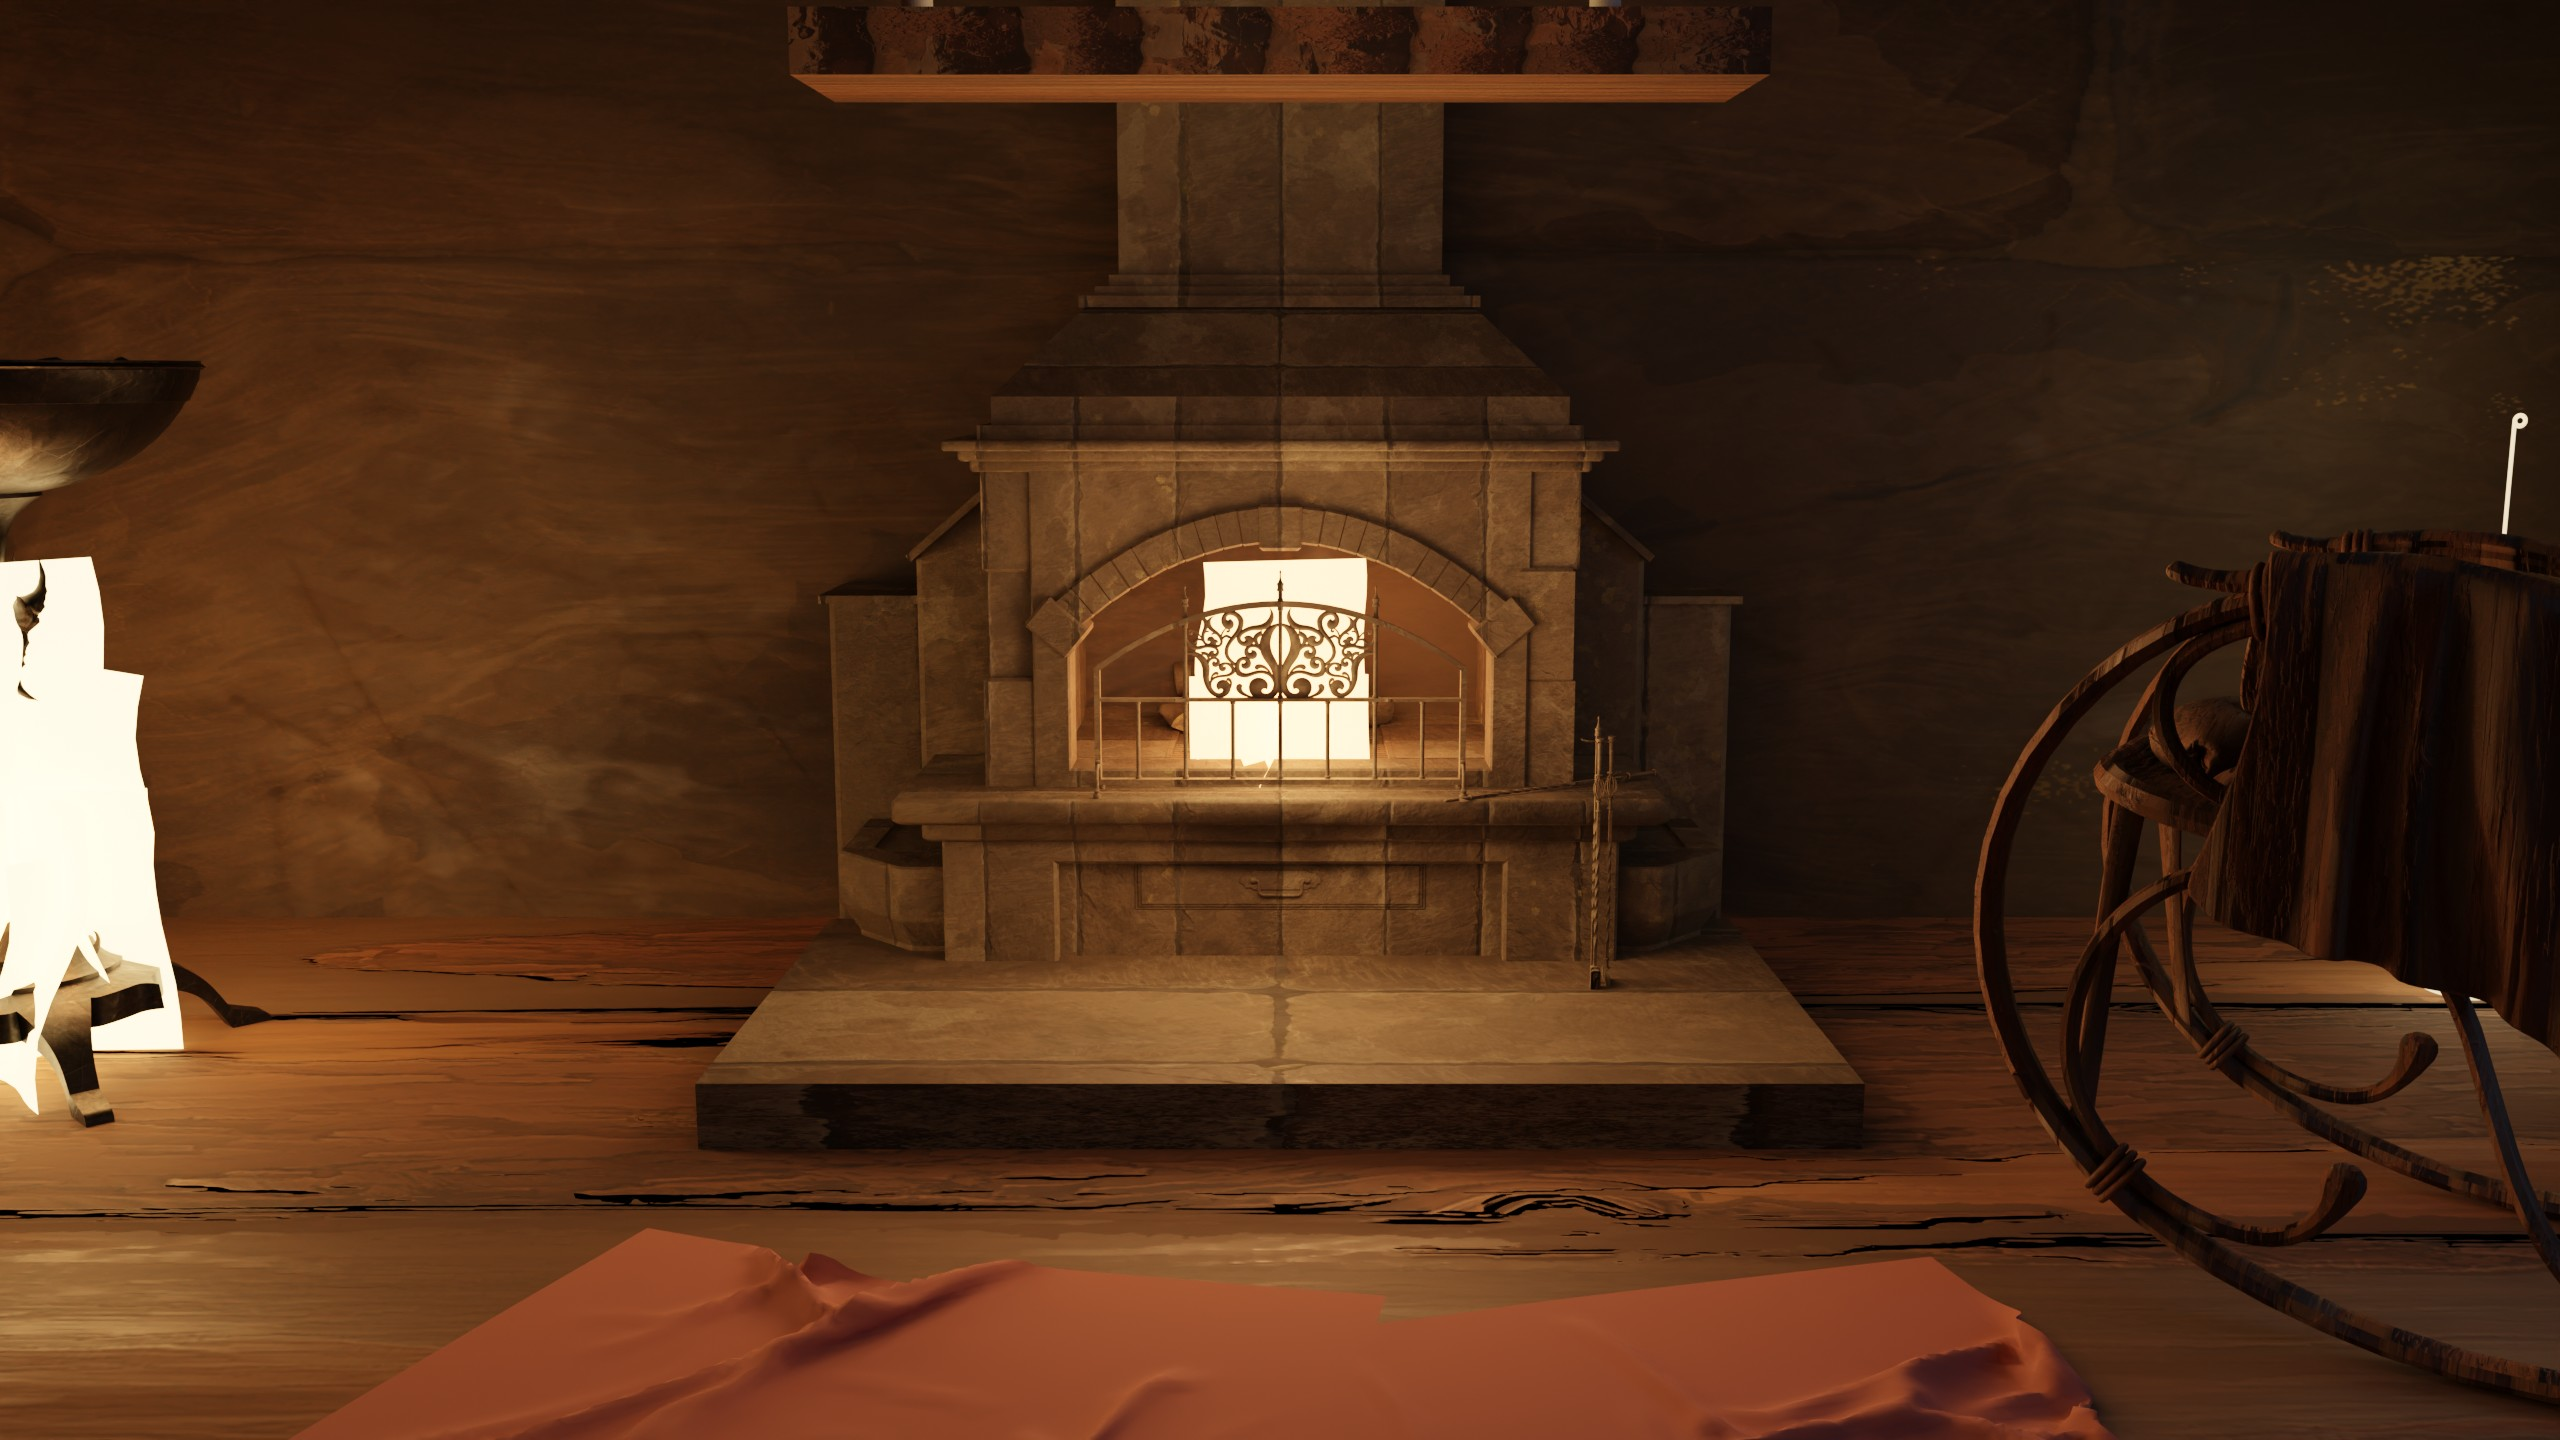
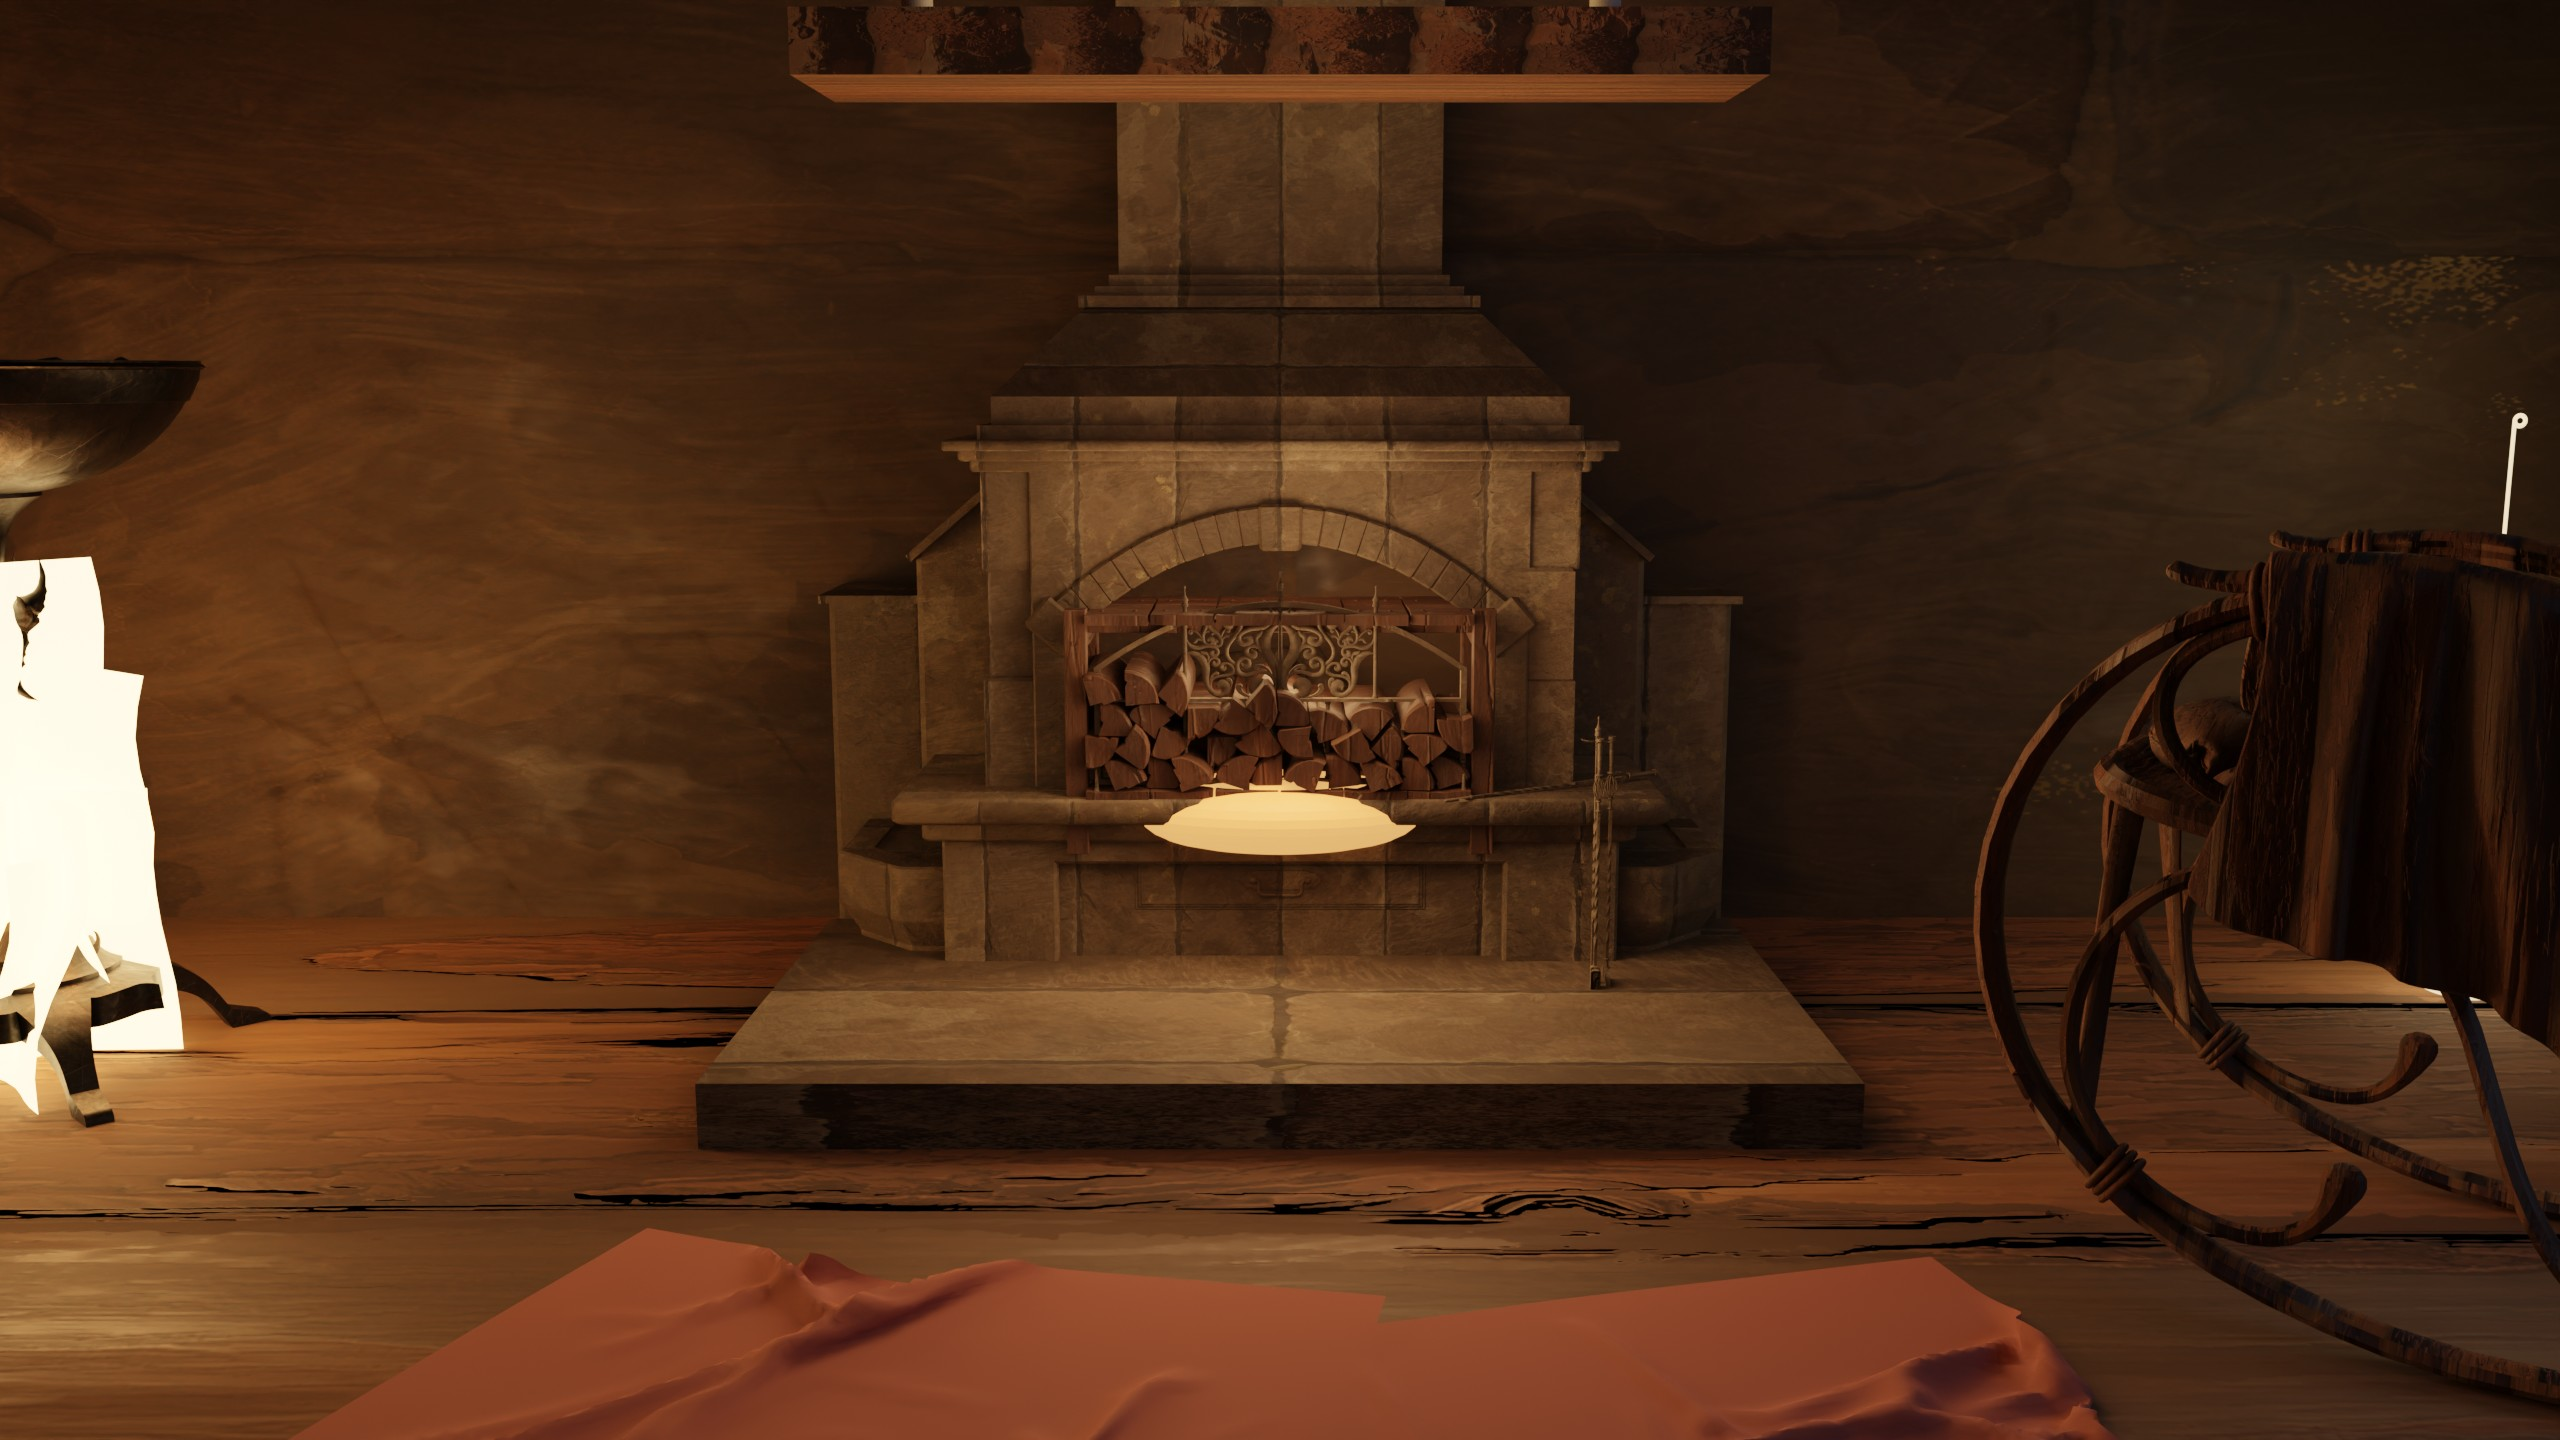
fix(cabin): real firewood in the hearth, taller wispy flames, writings at the books
- Replace the flat glowing fire mesh with KB3D PropFireWood_A (stacked logs)
  in the firebox; dim ember bed + warm hearth light so the logs read
- Rework the flame shader into separated licking tongues with transparent gaps
  (logs show through), taller and wider, with rising sparks
- Consolidate the text markers onto the books: one "writings" marker opens the
  tale + the three ways (was scattered story/methods markers)

Changed region(s): [[0.375, 0.375, 0.625, 0.6875], [0.4375, 0.7188, 0.5625, 0.75], [0.5, 0.8438, 0.5312, 0.875]]

diff --git a/cabin.html b/cabin.html
@@ -1667,8 +1667,7 @@ const reduce   = matchMedia('(prefers-reduced-motion: reduce)').matches;
 // in-world points of interest (lon/lat in the equirect; tuned to the render)
 const MARKERS = [
   { key:'meditate', lon:0,   lat:-13, r:5.5, jp:'炎を見つめて瞑想する', en:'gaze into the fire' },
-  { key:'story',    lon:-24, lat:-16, r:6,   jp:'小屋の物語',           en:'the tale of the cabin' },
-  { key:'methods',  lon:-42, lat:-7,  r:6,   jp:'心の鎮め方',           en:'three ways to quiet' },
+  { key:'writings', lon:-24, lat:-16, r:6,   jp:'小屋の物語と、整え方', en:'the writings' },
   { key:'window',   lon:-63, lat:1,   r:6,   jp:'夜の森をのぞむ',       en:'the night forest' },
 ];
 
@@ -1721,37 +1720,35 @@ else {
       float fbm(vec2 p){ float v=0.0,a=0.5; for(int i=0;i<5;i++){ v+=a*noise(p); p*=2.03; a*=0.5; } return v; }
       void main(){
         vec2 uv=vUv; float t=uTime;
-        // layered upward turbulence
         float n1=fbm(vec2(uv.x*3.0, uv.y*2.2 - t*1.7));
-        float n2=fbm(vec2(uv.x*6.5 - 1.0, uv.y*4.2 - t*3.0));
-        float turb=n1*0.65 + n2*0.35;
-        // flames sway sideways, more at the top
-        float xc=uv.x + (turb-0.5)*0.22*uv.y;
+        float n2=fbm(vec2(uv.x*6.8 - 1.0, uv.y*4.4 - t*3.1));
+        float turb=n1*0.6 + n2*0.4;
+        float xc=uv.x + (turb-0.5)*0.24*uv.y;
         float edge=clamp(1.0-abs(xc-0.5)*2.0, 0.0, 1.0);
-        // flame height: tallest at centre, licked by turbulence, breathing
-        float top=edge*edge*(0.6+0.32*uBreath)*(0.5+0.75*turb);
-        float flame=smoothstep(top, top-0.36, uv.y);
-        flame*=smoothstep(0.02,0.2,edge);
-        flame*=(0.45+0.65*turb);
-        flame=clamp(flame,0.0,1.0);
-        // glowing ember bed at the base
-        float ember=smoothstep(0.34,0.0,uv.y)*edge*(0.45+0.55*n2);
-        // colour ramp: white-hot base -> yellow -> orange -> deep-red tips
+        // flame height envelope (tall, licking, breathing)
+        float top=pow(edge,1.2)*(0.82+0.34*uBreath)*(0.55+0.85*turb);
+        // dense near the base, thinning to the tips
+        float hfall=clamp(1.0 - uv.y/max(top,0.01), 0.0, 1.0);
+        // separated tongues: flame only where turbulence*falloff crosses a threshold
+        // -> transparent gaps let the logs show through
+        float d=(n2*0.6+0.42)*hfall*pow(edge,0.55);
+        float flame=smoothstep(0.30, 0.60, d);
+        float ember=smoothstep(0.26,0.0,uv.y)*edge*(0.4+0.5*n2);
         float h=clamp(uv.y/max(top,0.001),0.0,1.0);
-        vec3 col=mix(vec3(1.0,0.96,0.72), vec3(1.0,0.55,0.13), smoothstep(0.0,0.45,h));
-        col=mix(col, vec3(0.82,0.14,0.03), smoothstep(0.45,1.0,h));
-        col+=vec3(0.95,0.32,0.06)*ember*0.7;
-        float a=max(flame, ember*0.6)*(0.9+0.1*sin(t*26.0+uv.x*8.0));
-        gl_FragColor=vec4(col*1.5, a);
+        vec3 col=mix(vec3(1.0,0.93,0.62), vec3(1.0,0.52,0.12), smoothstep(0.0,0.5,h));
+        col=mix(col, vec3(0.8,0.13,0.03), smoothstep(0.5,1.0,h));
+        col+=vec3(0.9,0.3,0.06)*ember*0.5;
+        float a=max(flame, ember*0.4)*(0.9+0.1*sin(t*27.0+uv.x*9.0));
+        gl_FragColor=vec4(col*1.18, a*0.86);
       }`
   });
-  const fire = new THREE.Mesh(new THREE.PlaneGeometry(1.2,1.45), fireMat);
-  fire.position.copy(bearing(HEARTH_LON,-9,6.2)); faceOrigin(fire); fire.renderOrder=2;
+  const fire = new THREE.Mesh(new THREE.PlaneGeometry(1.7,1.95), fireMat);
+  fire.position.copy(bearing(HEARTH_LON,-8,6.0)); faceOrigin(fire); fire.renderOrder=2;
   scene.add(fire);
 
   // hearth halo + embers
   const glowMat = new THREE.SpriteMaterial({ map:glowTex(255,138,50), blending:THREE.AdditiveBlending, depthWrite:false, transparent:true, opacity:.4 });
-  const glow = new THREE.Sprite(glowMat); glow.position.copy(bearing(HEARTH_LON,-9,6.6)); glow.scale.set(4.2,3.8,1); scene.add(glow);
+  const glow = new THREE.Sprite(glowMat); glow.position.copy(bearing(HEARTH_LON,-8,6.6)); glow.scale.set(4.4,4.2,1); scene.add(glow);
 
   const EN=reduce?0:90, ebase=bearing(HEARTH_LON,-11,5.9);
   const ep=new Float32Array(EN*3), es=[];
@@ -1865,7 +1862,7 @@ else {
     breath+=(bt-breath)*0.05; fireUniforms.uBreath.value=breath;
     const flick=reduce?1:(0.82+Math.sin(t*12.9)*0.06+Math.sin(t*7.1)*0.05+Math.random()*0.05);
     const I=flick*(0.72+0.5*breath);
-    glowMat.opacity=0.38*I; glow.scale.setScalar(4.1*(0.92+0.13*I));
+    glowMat.opacity=0.30*I; glow.scale.setScalar(4.0*(0.92+0.13*I));
     if(EN){ const a=eg.attributes.position.array;
       for(let i=0;i<EN;i++){ const s=es[i]; s.y+=dt*s.sp*0.12; if(s.y>1){ s.y=0; s.x=(Math.random()-.5)*1.5; s.z=(Math.random()-.5)*0.8; }
         a[i*3]=ebase.x+s.x+Math.sin(t*0.8+s.sw)*0.18*s.y; a[i*3+1]=ebase.y+s.y*2.2; a[i*3+2]=ebase.z+s.z; }
@@ -1935,12 +1932,12 @@ else {
   const caption=$('#caption'), capEyebrow=$('#capEyebrow'), capBody=$('#capBody');
   function openCaption(kind){
     let eyebrow='', html='';
-    if(kind==='story'){ eyebrow=i18nHTML('story.eyebrow');
-      html=`<p style="font-family:'Cormorant Garamond',serif;font-style:italic;color:var(--lantern-soft);font-size:1.15em;margin-bottom:18px">${i18nHTML('story.title')}</p>`
+    const H='font-family:\'Cormorant Garamond\',serif;font-style:italic;color:var(--lantern-soft);font-size:1.15em;margin:0 0 18px';
+    if(kind==='writings'){ eyebrow=i18nHTML('story.eyebrow');
+      html=`<p style="${H}">${i18nHTML('story.title')}</p>`
         +`<p>${i18nHTML('story.p1')}</p><p>${i18nHTML('story.p2')}</p><p>${i18nHTML('story.p3')}</p>`
-        +`<p style="color:var(--ash-dim);font-family:'Cormorant Garamond',serif;font-style:italic">${i18nHTML('story.sig')}</p>`; }
-    else if(kind==='methods'){ eyebrow=i18nHTML('method.eyebrow');
-      html=`<p style="font-family:'Cormorant Garamond',serif;font-style:italic;color:var(--lantern-soft);font-size:1.15em;margin-bottom:18px">${i18nHTML('method.title')}</p>`
+        +`<p style="color:var(--ash-dim);font-family:'Cormorant Garamond',serif;font-style:italic;margin-bottom:28px">${i18nHTML('story.sig')}</p>`
+        +`<p style="${H}">${i18nHTML('method.title')}</p>`
         +['1','2','3'].map(n=>`<p><em>${i18nHTML('method.'+n+'.h')}</em> — ${i18nHTML('method.'+n+'.p')}</p>`).join(''); }
     else if(kind==='window'){ eyebrow=i18nHTML('practice.eyebrow');
       html=`<p>${i18nHTML('closing.quote')}</p>`; }
@@ -1995,8 +1992,7 @@ else {
   // ── marker dispatch (called by the 3D module) ──
   window.onMarker=function(key){
     if(key==='meditate') enterMeditation();
-    else if(key==='story') openCaption('story');
-    else if(key==='methods') openCaption('methods');
+    else if(key==='writings') openCaption('writings');
     else if(key==='window') openCaption('window');
   };
 

diff --git a/_blender/eci_meditation_360.py b/_blender/eci_meditation_360.py
@@ -120,7 +120,7 @@ MAT = {
 # name -> (mat, x, y, rotz_deg, scale)
 KIT = {
     'KB3D_ECI_PropFireplace_A_Main':    ('stone', 0.0,  2.50, 0,   0.46),
-    'KB3D_ECI_PropFire_C_Main':         ('fire',  0.0,  2.34, 0,   0.55),
+    'KB3D_ECI_PropFireWood_A_Main':     ('beam',  0.0,  2.22, 0,   0.5),
     'KB3D_ECI_PropFloorFabric_A_Main':  ('rug',   0.0,  0.10, 0,   0.50),
     'KB3D_ECI_PropPillow_A_Main':       ('cush',  0.0, -0.45, 0,   1.10),
     'KB3D_ECI_PropRockingChair_A_Main': ('wood',  1.55, 0.95, -125, 1.0),
@@ -158,7 +158,11 @@ for name, (mk, x, y, rz, sc) in KIT.items():
 def lift(name, dz):
     o = bpy.data.objects.get(name)
     if o: o.location.z += dz
-lift('KB3D_ECI_PropFire_C_Main', 0.32)
+lift('KB3D_ECI_PropFireWood_A_Main', 0.30)
+# glowing coals beneath the firewood (the live flames are added in three.js)
+bpy.ops.mesh.primitive_uv_sphere_add(radius=0.16, location=(0, 2.18, 0.36))
+_coals = bpy.context.active_object; _coals.name = 'Coals'; _coals.scale = (1.7, 1.0, 0.45)
+set_mat(_coals, make_emissive('coals_m', (1.0, 0.34, 0.09), 1.4))
 print('[kit] placed', flush=True)
 
 # ============================================================ cabin shell
@@ -244,7 +248,7 @@ def add_light(kind, name, loc, energy, color, size=0.5):
     elif kind == 'POINT': d.shadow_soft_size = size
     o = bpy.data.objects.new(name, d); scene.collection.objects.link(o); o.location = loc
     return o
-add_light('POINT', 'HearthKey',  (0, 2.18, 0.5), 95, (1.0, 0.44, 0.16), size=0.45)
+add_light('POINT', 'HearthKey',  (0, 2.18, 0.62), 100, (1.0, 0.5, 0.22), size=0.5)
 add_light('POINT', 'HearthFill', (0, 1.5, 0.95), 26, (1.0, 0.5, 0.22), size=0.9)
 mo = add_light('AREA', 'MoonLight', (RX+0.3, 0.1, 1.5), 46, (0.42, 0.58, 1.0), size=2.4)
 mo.rotation_euler = (0, math.radians(82), 0)
